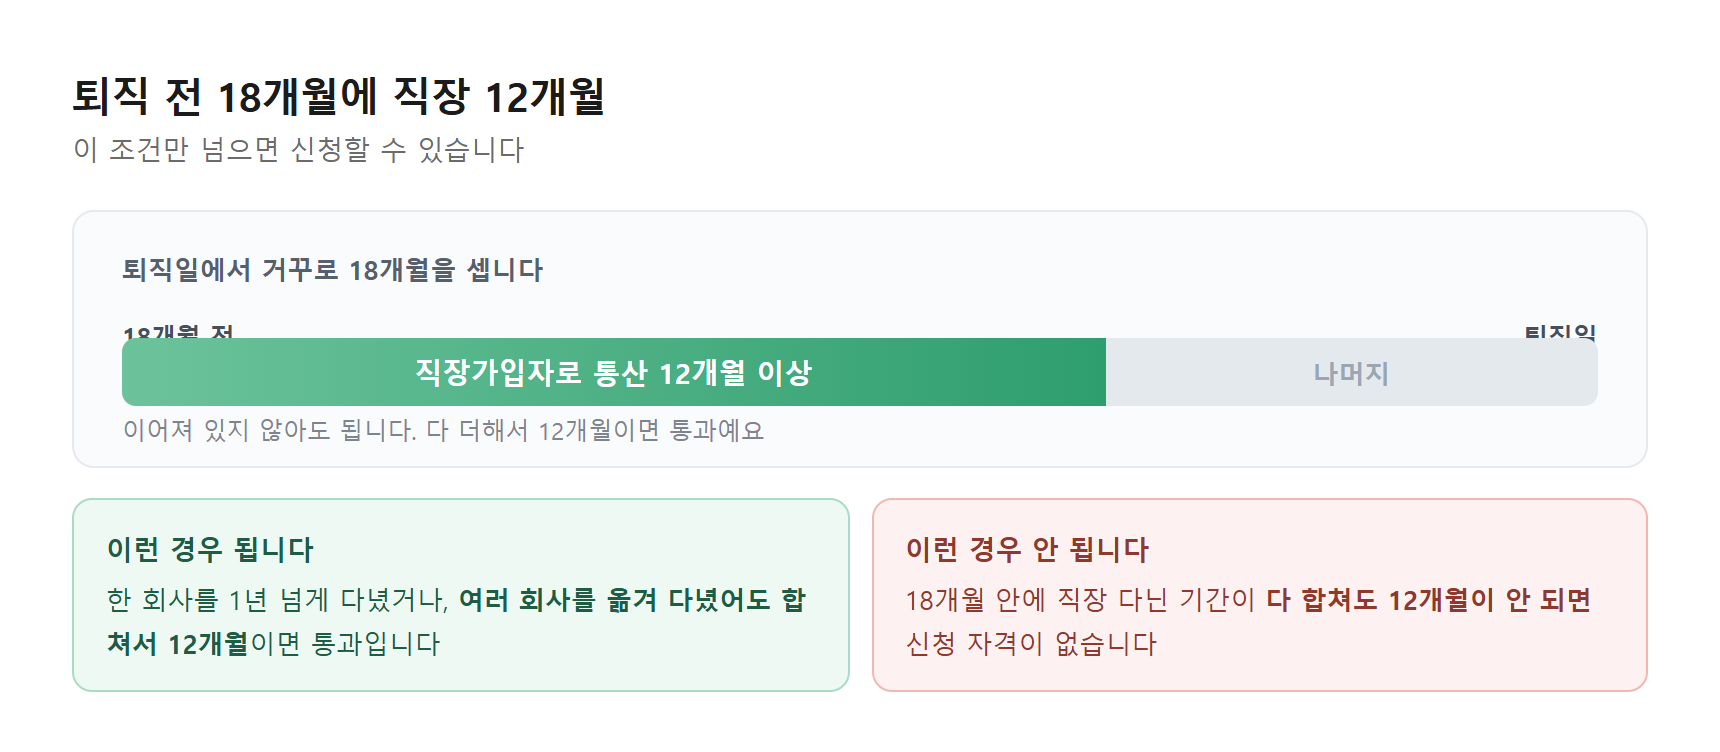
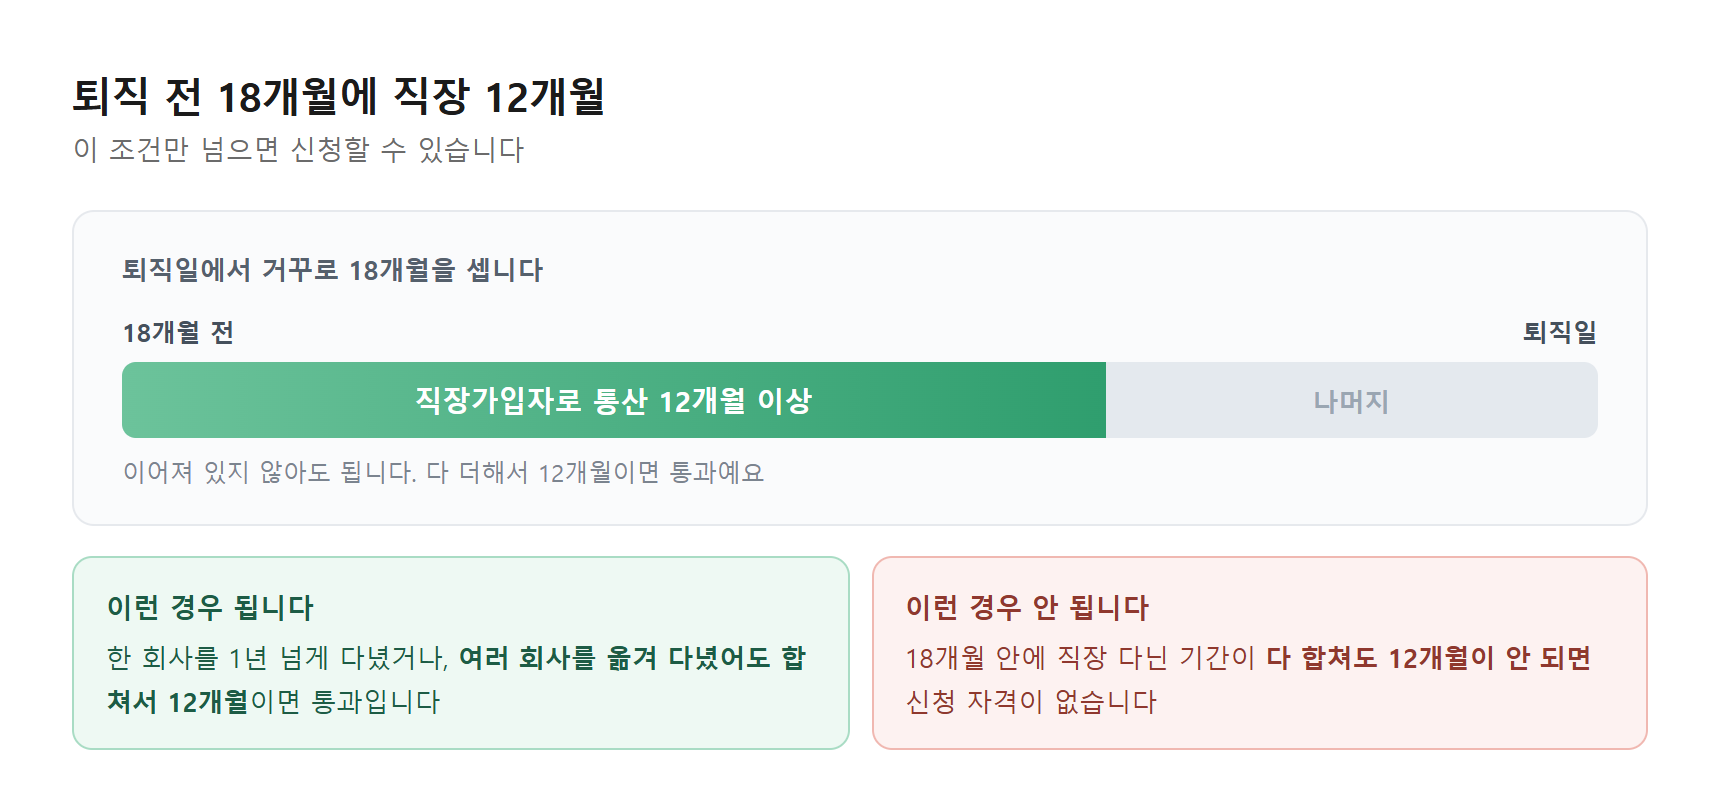
hi02 자격 도식 라벨 겹침 수정

diff --git a/art/hi02-qualify.html b/art/hi02-qualify.html
@@ -7,19 +7,23 @@
     font-family: 'Pretendard','Malgun Gothic',-apple-system,sans-serif; color: #1b1b1b; }
   h1 { font-size: 20px; letter-spacing: -0.4px; margin-bottom: 4px; }
   .sub { font-size: 13.5px; color: #6b6b6b; margin-bottom: 22px; }
-  .box { background: #fafbfc; border: 1px solid #e6e9ed; border-radius: 11px; padding: 20px 24px 16px; margin-bottom: 15px; }
-  .lab { font-size: 13px; font-weight: 700; color: #55606c; margin-bottom: 12px; }
-  .bar { position: relative; height: 62px; }
-  .track { position: absolute; top: 14px; left: 0; right: 0; height: 34px; border-radius: 7px;
-           background: #e4e9ee; display: flex; overflow: hidden; }
+
+  .box { background: #fafbfc; border: 1px solid #e6e9ed; border-radius: 11px;
+         padding: 20px 24px 18px; margin-bottom: 15px; }
+  .lab { font-size: 13px; font-weight: 700; color: #55606c; margin-bottom: 14px; }
+
+  .ends { display: flex; justify-content: space-between; margin-bottom: 7px; }
+  .ends span { font-size: 12.5px; font-weight: 800; color: #45505c; }
+
+  .track { display: flex; height: 38px; border-radius: 7px; overflow: hidden; background: #e4e9ee; }
   .fill { width: 66.6%; background: linear-gradient(90deg,#6cc39b,#2f9e6e);
           display: flex; align-items: center; justify-content: center;
           color: #fff; font-size: 14px; font-weight: 800; }
   .rest { flex: 1; display: flex; align-items: center; justify-content: center;
           color: #9aa6b2; font-size: 13px; font-weight: 700; }
-  .end { position: absolute; top: 4px; right: 0; font-size: 12.5px; font-weight: 800; color: #45505c; }
-  .start { position: absolute; top: 4px; left: 0; font-size: 12.5px; font-weight: 800; color: #45505c; }
-  .note { position: absolute; top: 52px; left: 0; font-size: 12px; color: #7b848f; }
+
+  .note { margin-top: 9px; font-size: 12px; color: #7b848f; }
+
   .two { display: flex; gap: 11px; }
   .c { flex: 1; border-radius: 10px; padding: 13px 16px; font-size: 13px; line-height: 1.65; }
   .ok { background: #eef9f3; border: 1px solid #a9dcc4; color: #1d5c45; }
@@ -30,18 +34,17 @@
 <div id="art">
   <h1>퇴직 전 18개월에 직장 12개월</h1>
   <p class="sub">이 조건만 넘으면 신청할 수 있습니다</p>
+
   <div class="box">
     <div class="lab">퇴직일에서 거꾸로 18개월을 셉니다</div>
-    <div class="bar">
-      <div class="start">18개월 전</div>
-      <div class="end">퇴직일</div>
-      <div class="track">
-        <div class="fill">직장가입자로 통산 12개월 이상</div>
-        <div class="rest">나머지</div>
-      </div>
-      <div class="note">이어져 있지 않아도 됩니다. 다 더해서 12개월이면 통과예요</div>
+    <div class="ends"><span>18개월 전</span><span>퇴직일</span></div>
+    <div class="track">
+      <div class="fill">직장가입자로 통산 12개월 이상</div>
+      <div class="rest">나머지</div>
     </div>
+    <p class="note">이어져 있지 않아도 됩니다. 다 더해서 12개월이면 통과예요</p>
   </div>
+
   <div class="two">
     <div class="c ok"><span class="h">이런 경우 됩니다</span>
       한 회사를 1년 넘게 다녔거나, <b>여러 회사를 옮겨 다녔어도 합쳐서 12개월</b>이면 통과입니다</div>
